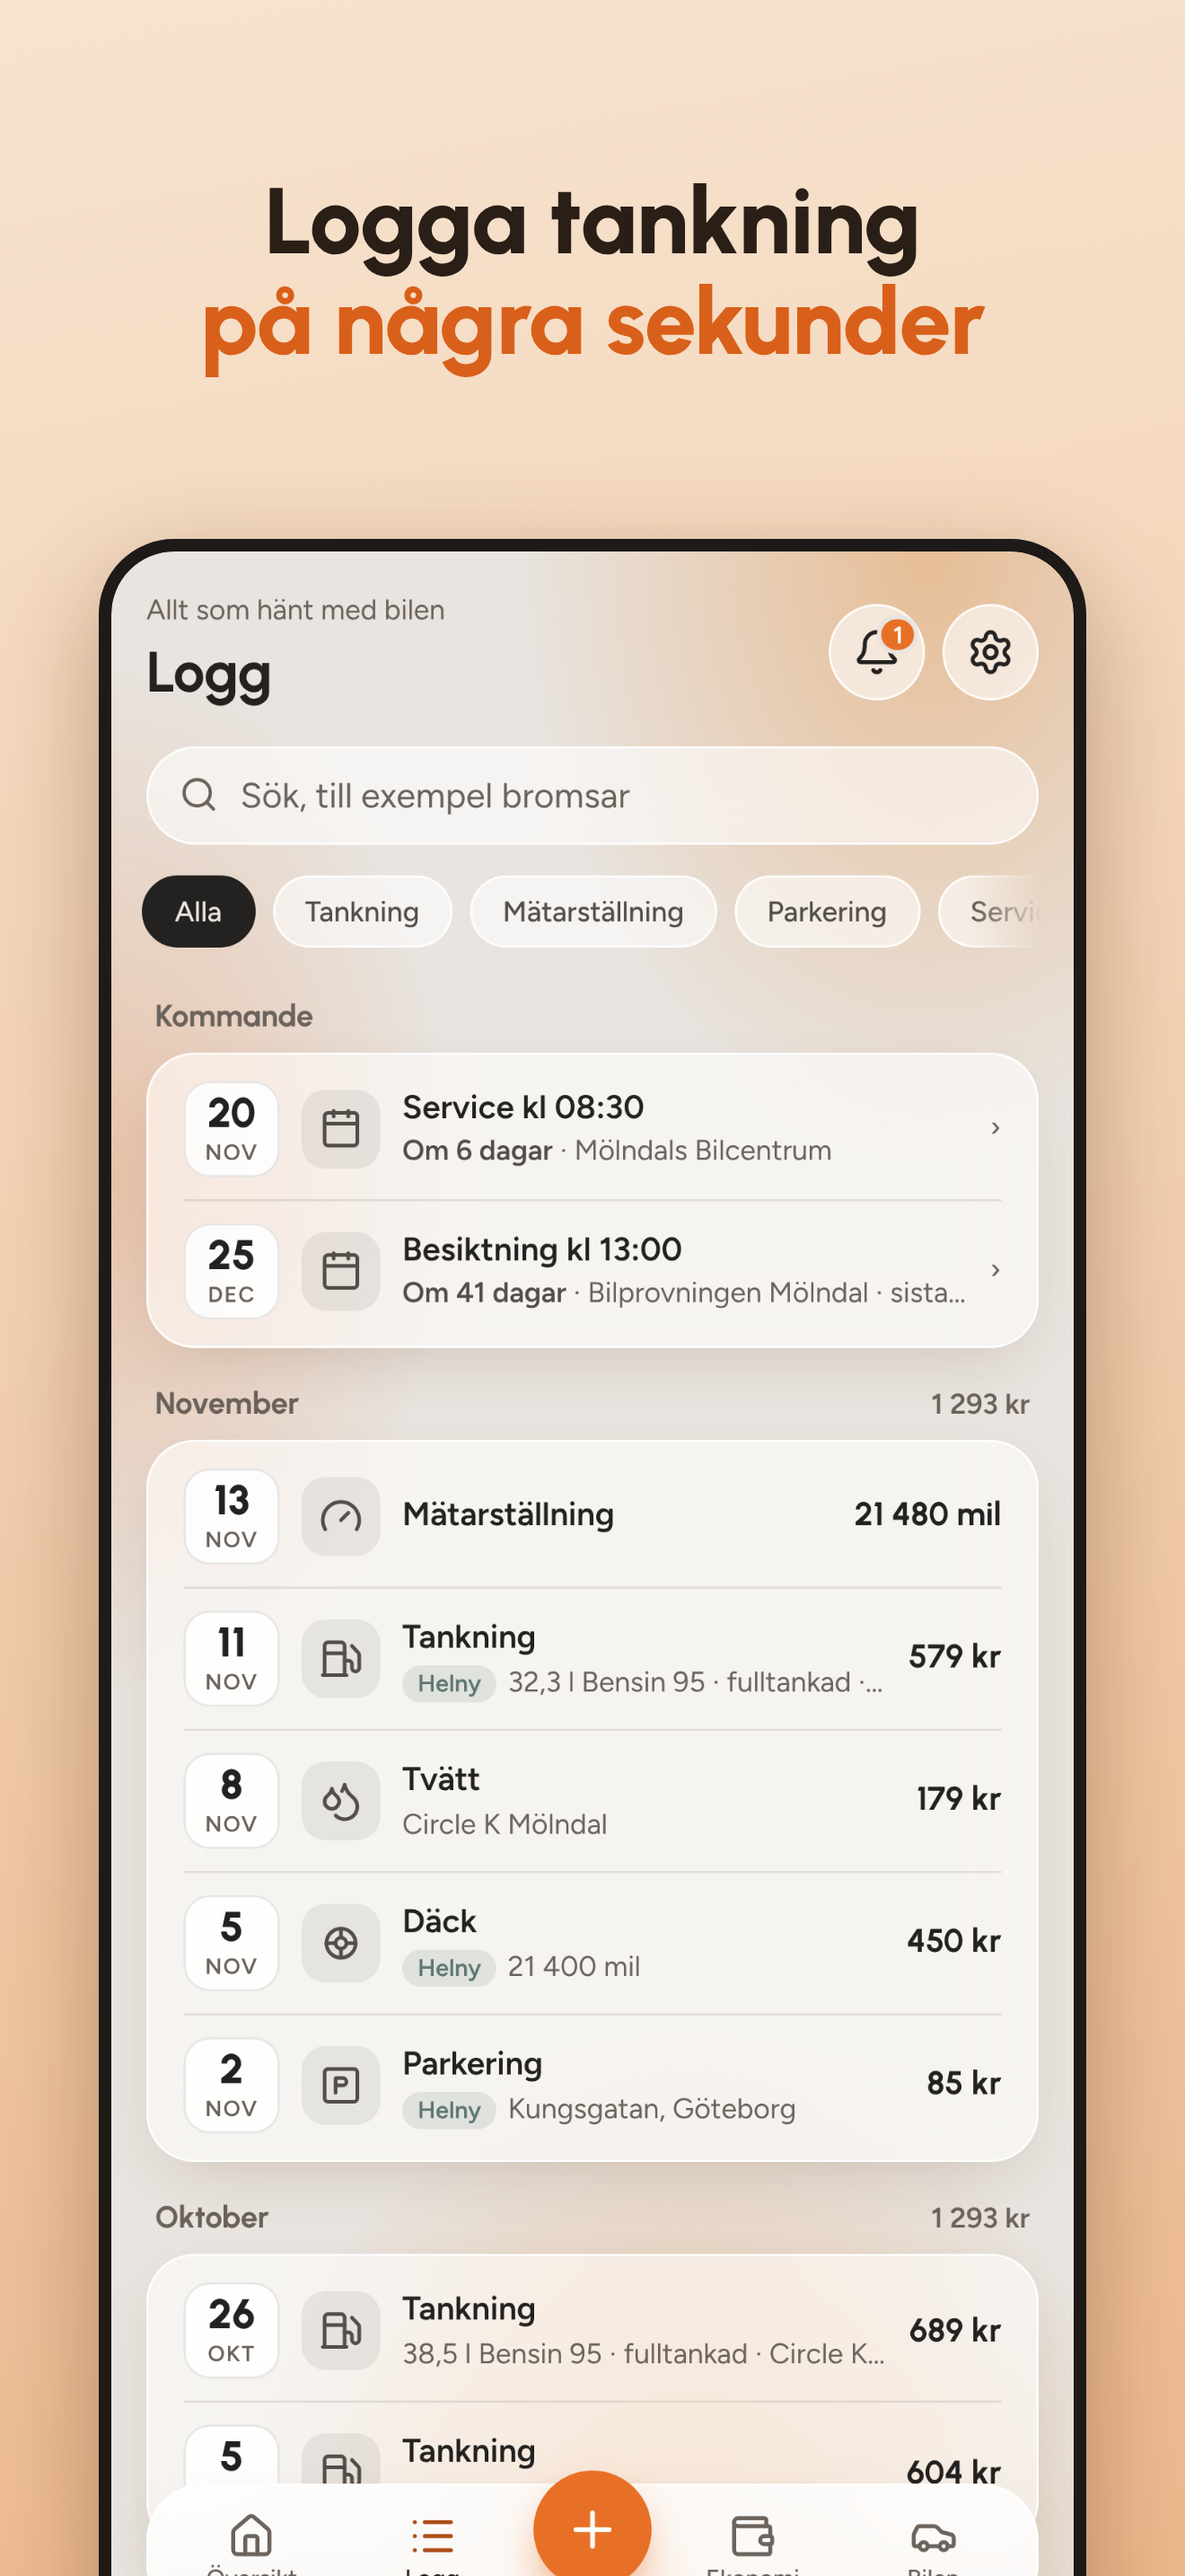
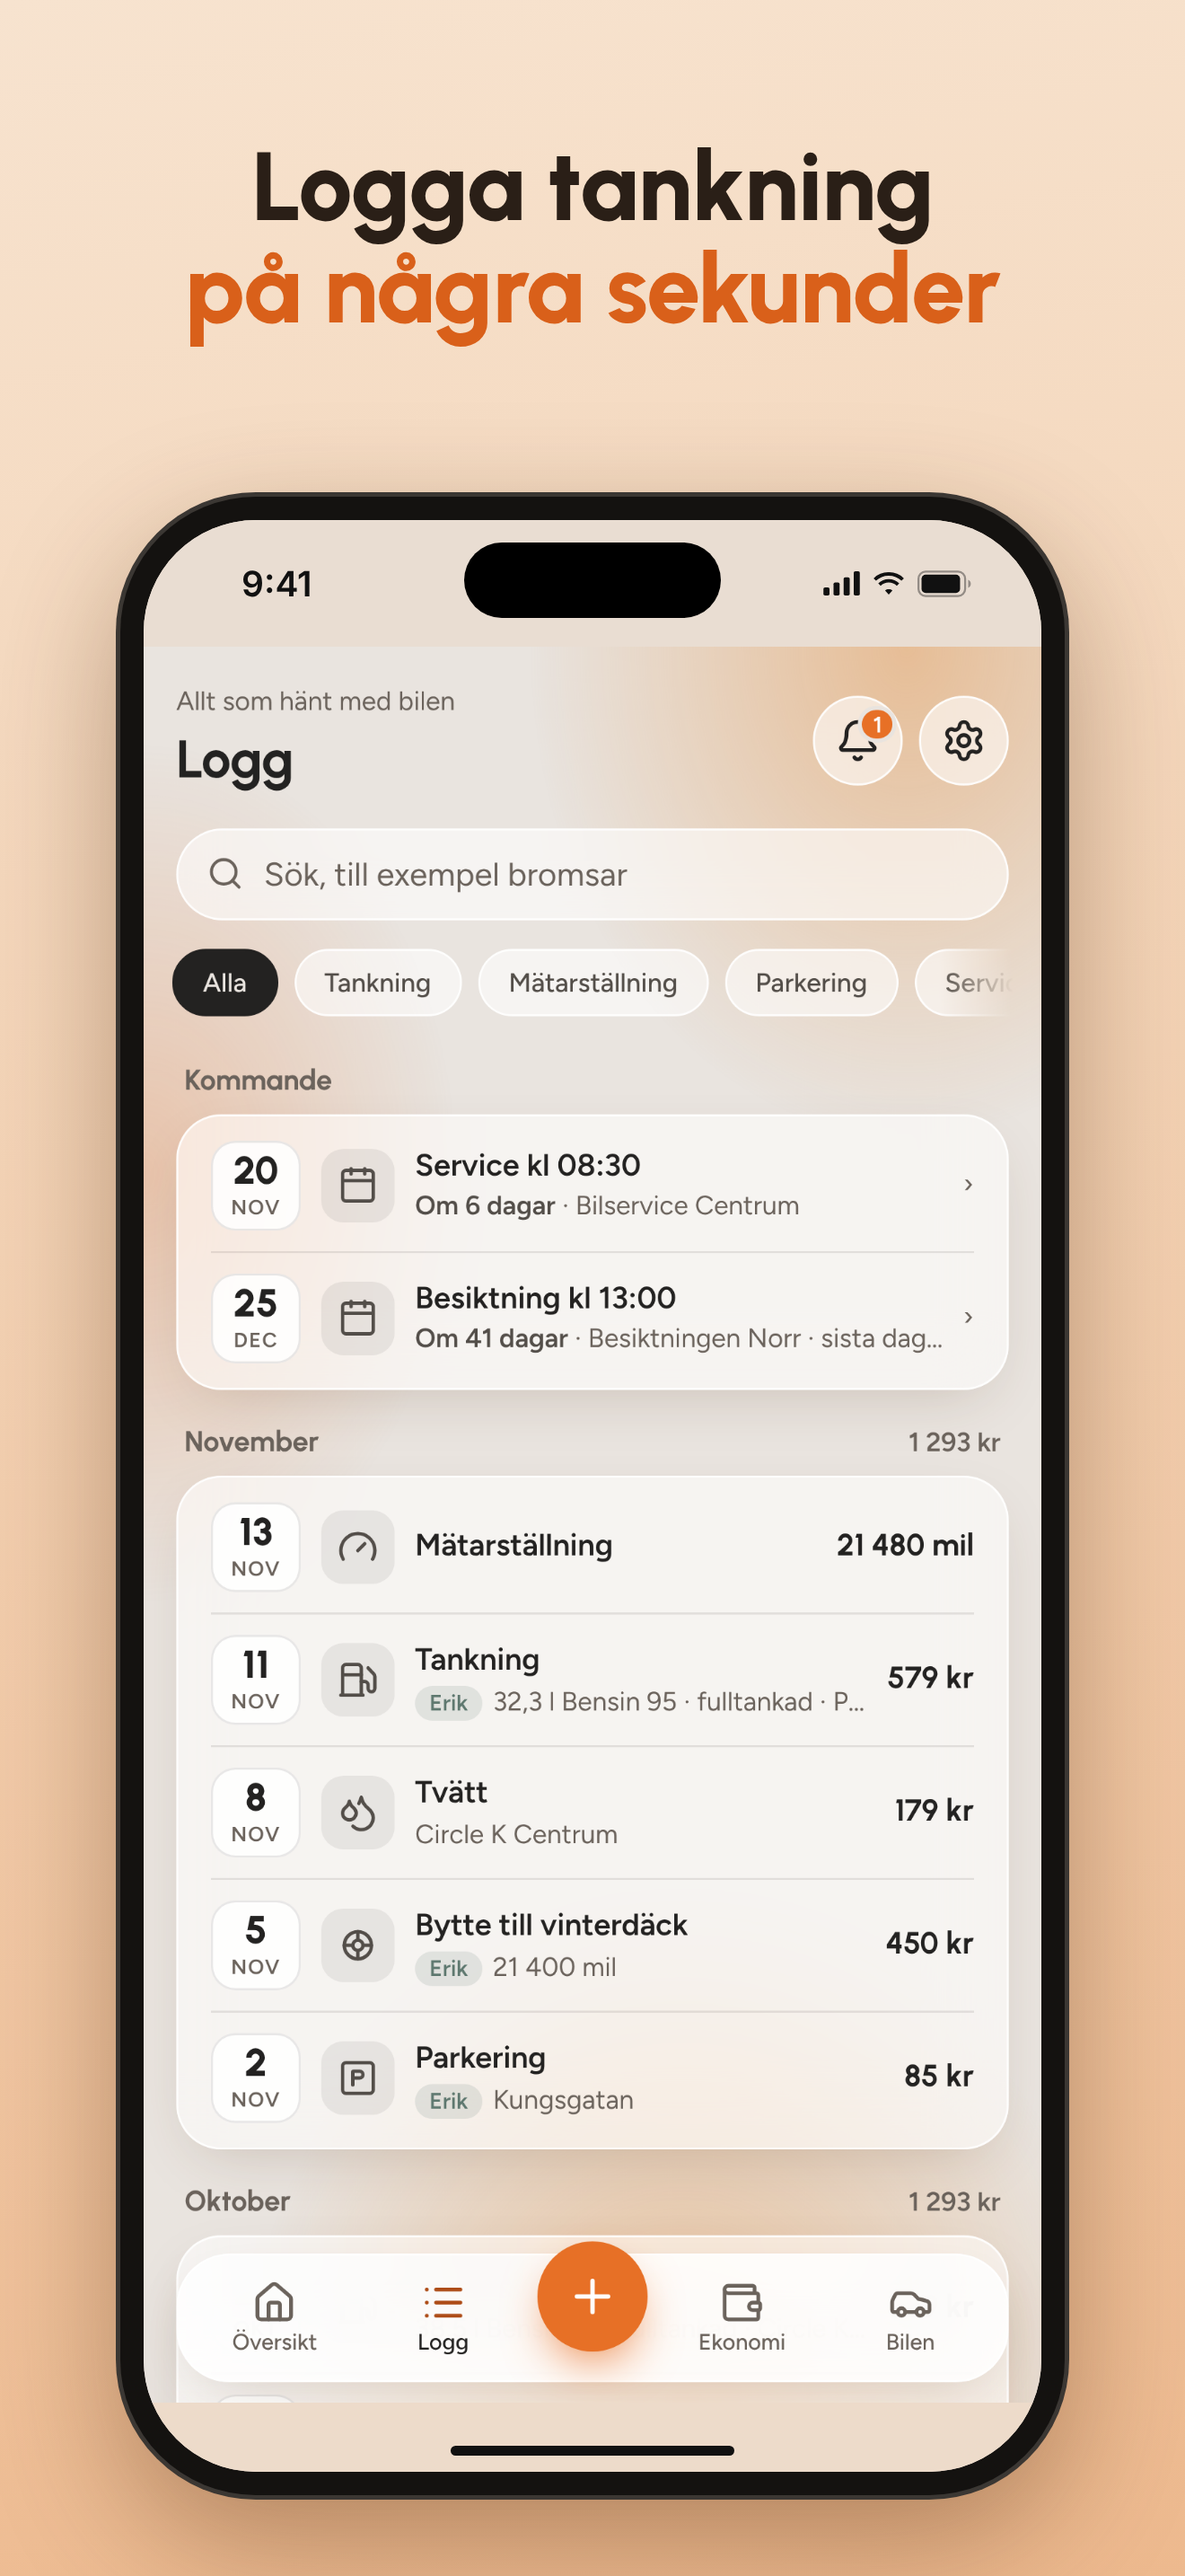
Nya skärmbilder med iPhone-ram och påhittade namn; exempeltexter utan ort i appen
Claude-Session: https://claude.ai/code/session_01PEFnyMQFqKgaJqWGZT8Rs3

diff --git a/app.js b/app.js
@@ -1144,7 +1144,7 @@ function carFormFields(c = {}, { sections = ["basic"], isNew = false } = {}) {
   parts.dates = `
     <div class="row2">
       ${inp("besiktning", "Sista dag för besiktning", c.besiktning, 'type="date"')}
-      ${inp("besiktningPlats", "Besiktningsstation", c.besiktningPlats, 'placeholder="Till exempel Bilprovningen Kungsbacka"')}
+      ${inp("besiktningPlats", "Besiktningsstation", c.besiktningPlats, 'placeholder="Till exempel Bilprovningen"')}
     </div>
     <div class="row2">
       ${inp("forsakringBolag", "Försäkringsbolag", c.forsakringBolag, 'placeholder="Till exempel If eller Folksam"')}
@@ -3211,9 +3211,9 @@ function bookingForm(b = {}) {
             </div>
             <input type="hidden" name="time" id="bk-time" value="${esc(t || (b.id ? "" : "09:00"))}"></div>`;
       })()}
-      ${field("Var", `<input name="place" id="bk-place" value="${esc(b.place || "")}" placeholder="Till exempel Mölndals däckservice" autocomplete="off" role="combobox" aria-autocomplete="list" aria-controls="bk-suggest" aria-expanded="false">
+      ${field("Var", `<input name="place" id="bk-place" value="${esc(b.place || "")}" placeholder="Till exempel Däckcentrum" autocomplete="off" role="combobox" aria-autocomplete="list" aria-controls="bk-suggest" aria-expanded="false">
         <span class="suggest" id="bk-suggest" role="listbox" hidden></span>`)}
-      ${field("Adress", `<input name="placeAddr" id="bk-addr" value="${esc(b.addr || "")}" placeholder="Till exempel Kråketorpsgatan 20, Mölndal" autocomplete="off" role="combobox" aria-autocomplete="list" aria-controls="bk-addr-suggest" aria-expanded="false">
+      ${field("Adress", `<input name="placeAddr" id="bk-addr" value="${esc(b.addr || "")}" placeholder="Till exempel Storgatan 20, Uppsala" autocomplete="off" role="combobox" aria-autocomplete="list" aria-controls="bk-addr-suggest" aria-expanded="false">
         <input type="hidden" name="placeLat" id="bk-lat" value="${b.lat ?? ""}">
         <input type="hidden" name="placeLon" id="bk-lon" value="${b.lon ?? ""}">
         <input type="hidden" name="placeId" id="bk-pid" value="${esc(b.placeId || "")}">
@@ -3562,7 +3562,7 @@ function entryForm(type, e = {}, opts = {}) {
           return last.length ? `<div class="date-quick">${last.map((a) => `<button type="button" class="chip-btn" data-act="amount-quick" data-v="${esc(fmtKr(a))}">${esc(fmtKr(a))} kr</button>`).join("")}</div>` : "";
         })() : ""}
         <label class="check"><input type="checkbox" name="full" id="ef-full"${e.full === false ? "" : " checked"}> Tankade fullt</label>
-        ${placeField("station", "ef-station", e.station, "fuel", "Circle K Mölndal")}
+        ${placeField("station", "ef-station", e.station, "fuel", "Circle K")}
         ${odo(false)}
         ${date}
         ${more(field("Drivmedel", `<select name="fuel" id="ef-fuel">${fuels.map((f) => `<option${(e.fuel || pref.get("fuel." + c.id) || fuels[0]) === f ? " selected" : ""}>${esc(f)}</option>`).join("")}</select>`))}`;
@@ -3574,7 +3574,7 @@ function entryForm(type, e = {}, opts = {}) {
     // Samma ordning i alla formulär: vad → belopp → mätarställning → datum → detaljer.
     case "service":
       body = `${items}${parts}
-        ${placeField("workshop", "ef-workshop", e.workshop, "car_repair", "Mekonomen Mölndal")}
+        ${placeField("workshop", "ef-workshop", e.workshop, "car_repair", "Mekonomen")}
         ${amount("2 500")}${odo(false)}${date}${more()}`;
       break;
     case "eget":
@@ -3588,17 +3588,17 @@ function entryForm(type, e = {}, opts = {}) {
           <div id="ef-tirekind-box"${isSwap(actDefault) ? " hidden" : ""}>${field("Vilka däck?", `<select name="tireKind" id="ef-tireKind"><option value="">Välj</option><option value="sommar"${e.tireKind === "sommar" ? " selected" : ""}>Sommardäck</option><option value="vinter"${e.tireKind === "vinter" ? " selected" : ""}>Vinterdäck</option></select>`)}</div>
           ${field("Mönsterdjup (mm)", `<input name="depth" id="ef-depth" inputmode="decimal" value="${e.depth ?? ""}" placeholder="Valfritt">`)}
         </div>
-        ${placeField("place", "ef-place", e.place, "tyres", "Däckia Mölndal")}
+        ${placeField("place", "ef-place", e.place, "tyres", "Däckia")}
         ${amount("800")}${odo(false)}${date}${more()}`;
       break;
     }
     case "tvatt":
-      body = `${placeField("place", "ef-place", e.place ?? (e.id ? "" : pref.get("wash." + c.id) || ""), "car_wash", "Circle K Mölndal")}
+      body = `${placeField("place", "ef-place", e.place ?? (e.id ? "" : pref.get("wash." + c.id) || ""), "car_wash", "Circle K")}
         ${amount("149")}
         ${date}${more()}`;
       break;
     case "parkering":
-      body = `${placeField("place", "ef-place", e.place, "parking", "Kungsgatan, Göteborg")}
+      body = `${placeField("place", "ef-place", e.place, "parking", "Kungsgatan")}
         ${amount("45")}
         <label class="check"><input type="checkbox" name="fine" id="ef-fine"${e.fine ? " checked" : ""}> P-bot eller felparkeringsavgift</label>
         ${!e.id ? `<label class="check"><input type="checkbox" name="recurring" id="ef-recurring"${opts.recurringId ? " checked" : ""}> Återkommande (hyrd plats)</label>
@@ -3617,7 +3617,7 @@ function entryForm(type, e = {}, opts = {}) {
         ? `<input type="hidden" name="category" id="ef-category" value="Besiktning">`
         : field("Typ", `<select name="category" id="ef-category">${COST_CATS.filter((k) => !["Tvätt", "Parkering", "Besiktning"].includes(k) || e.category === k).map((k) => `<option${e.category === k ? " selected" : ""}>${k}</option>`).join("")}</select>`)}
         ${e.category === "Besiktning"
-          ? `${placeField("place", "ef-place", e.place || (e.title || "").replace(/^Besiktning hos /, "") || "", "vehicle_inspection", "Bilprovningen Mölndal")}
+          ? `${placeField("place", "ef-place", e.place || (e.title || "").replace(/^Besiktning hos /, "") || "", "vehicle_inspection", "Bilprovningen")}
              <input type="hidden" name="title" value="${v("title")}">`
           : field("Beskrivning", `<input name="title" id="ef-title" value="${v("title")}" placeholder="Valfritt, till exempel Halvförsäkring 2027">`)}
         ${amount(e.category === "Besiktning" ? "520" : "3 200")}${date}
@@ -4317,7 +4317,7 @@ async function showEntryMap(e) {
         if (!hit) dd?.parentElement.remove();
         if (note) {
           note.hidden = !!hit;
-          if (!hit) note.textContent = `Hittade ingen adress för ”${name}”. Tryck Ändra och skriv med orten, till exempel ”${name} Mölndal”.`;
+          if (!hit) note.textContent = `Hittade ingen adress för ”${name}”. Tryck Ändra och skriv med orten, till exempel ”${name} Uppsala”.`;
         }
       } catch {
         if (note) note.textContent = "Kunde inte leta upp adressen just nu. Öppna posten igen om en stund.";

diff --git a/en.js b/en.js
@@ -59,14 +59,14 @@ export const EN = {
   "Ägaren har slutat dela serviceboken": "The owner has stopped sharing the service book",
   "Delad från Bildagboken. Uppdaterad": "Shared from Bildagboken. Updated",
   "Nästa besiktning senast (valfritt": "Next inspection by (optional",
-  "Till exempel Kungsgatan, Göteborg": "For example Kungsgatan, Göteborg",
+  "Till exempel Kungsgatan": "For example Kungsgatan",
   "Serviceboken gick inte att hämta": "The service book could not be loaded",
   "Inga loggade byten än. Kryssa i": "No logged changes yet. Tick",
   "Kryssa i det som gjordes. Bara": "Tick what was done. Only",
   "Återställ standardpunkter för": "Restore default items for",
   "Saker vi gjort själva nyligen": "Things we did ourselves recently",
   "Skriv vad det är för dokument": "Write what kind of document it is",
-  "Till exempel Circle K Mölndal": "For example Circle K Mölndal",
+  "Till exempel Circle K": "For example Circle K",
   "Säkerhetskopian är nedladdad": "The backup is downloaded",
   "Lämna tom om den fortsätter": "Leave empty if it continues",
   "Bildagboken säkerhetskopia": "Bildagboken backup",
@@ -278,7 +278,7 @@ export const EN = {
   "Du har inte behörighet att spara det här": "You are not allowed to save this",
   "Kvittot gick inte att läsa. Fyll i själv": "The receipt could not be read. Fill it in yourself",
   "Nästa besiktning ska ligga efter den här": "The next inspection must be after this one",
-  "Till exempel Kråketorpsgatan 20, Mölndal": "For example Kråketorpsgatan 20, Mölndal",
+  "Till exempel Storgatan 20, Uppsala": "For example Storgatan 20, Uppsala",
   "Den här webbläsaren kan inte ange plats": "This browser cannot provide a location",
   "Det finns inget loggat att ladda ner än": "There is nothing logged to download yet",
   "Då öppnas Bildagboken som en vanlig app": "Then Bildagboken opens like a normal app",
@@ -302,7 +302,7 @@ export const EN = {
   "Finns i listan ovan, kryssa i den": "Is in the list above, tick it",
   "Kontrollera nätet och försök igen": "Check the connection and try again",
   "Lägg in besiktning och försäkring": "Add inspection and insurance",
-  "Till exempel Mölndals däckservice": "For example Mölndals däckservice",
+  "Till exempel Däckcentrum": "For example Däckcentrum",
   "Till exempel försäkringsbrev 2027": "For example insurance letter 2027",
   "uppdaterade mätarställningen till": "updated the odometer to",
   "Besiktning, försäkring och skatt": "Inspection, insurance and tax",
@@ -900,7 +900,7 @@ export const EN = {
   "Kunde inte leta upp adressen just nu. Öppna posten igen om en stund": "Could not look up the address right now. Open the entry again in a while",
   "Hittade ingen adress för": "No address found for",
   "Tryck Ändra och skriv med orten, till exempel": "Tap Edit and add the town, for example",
-  "Till exempel Bilprovningen Mölndal": "For example Bilprovningen Mölndal",
+  "Till exempel Bilprovningen": "For example Bilprovningen",
   "besiktningsstation": "inspection station",
   "Påslagna på den här enheten. Välj vad du vill få notiser om": "On for this device. Choose what you want notifications about",
   "Stäng av alla notiser på den här enheten": "Turn off all notifications on this device",

diff --git a/sw.js b/sw.js
@@ -1,5 +1,5 @@
 // Service worker: gör att appen startar även utan nät och kan visa notiser.
-const CACHE = "bildagboken-v156";
+const CACHE = "bildagboken-v157";
 const SHELL = [
   "./",
   "./index.html",

diff --git a/native/app-store.md b/native/app-store.md
@@ -65,4 +65,4 @@ Data som samlas in: **Ja**. Inget används för spårning, och inget säljs.
 **Integritetspolicy-URL:** https://bildagboken.com/integritet.html
 
 ## Skärmbilder
-iPhone 6,9" (1320 × 2868), i mappen `app-store-bilder`. Ladda upp dem i ordning 1–6.
+iPhone 6,9" (1320 × 2868), i mappen `app-store-bilder`. Ladda upp dem i ordning 1–6. Påhittade namn och platser (Sara, Erik, Familjen Berg).
